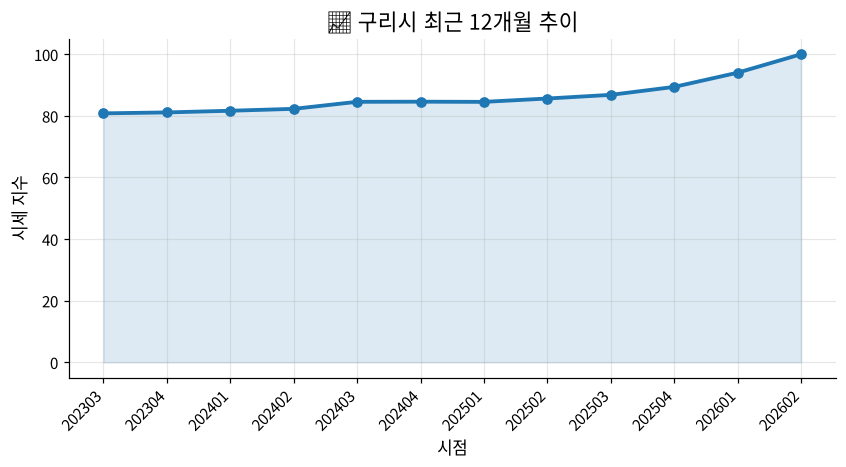
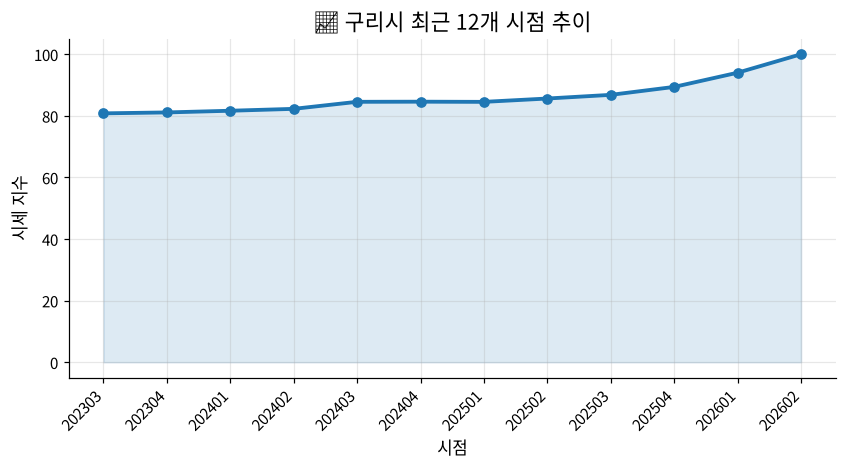
Auto-post: 🔥 구리시 부동산 핫스팟 심층 분석

Changed region(s): [[0.3688, 0.0, 0.7069, 0.0899]]

diff --git a/_posts/2026-11-09-구리시-부동산-핫스팟-심층-분석.md b/_posts/2026-11-09-구리시-부동산-핫스팟-심층-분석.md
@@ -1,0 +1,226 @@
+---
+layout: post
+title: "🔥 구리시 부동산 핫스팟 심층 분석"
+date: 2026-11-09 07:26:22 +0900
+categories: 부동산 핫스팟
+---
+
+> **2026년 11월 09일 기준** 한국부동산원 R-ONE 데이터 분석
+
+## 📌 이번 데이터의 의미
+
+**경기 구리시**는 전국 **98개 지역 중 1위**의 핫스코어를 기록했습니다.
+이 글에서는 **경기 구리시의 강세 요인**을 파헤치고, **전국 상위 지역과 비교**합니다.
+
+---
+
+## 💹 숫자로 보기
+
+| 지표 | 값 | 해석 |
+|---|---|---|
+| **핫스코어** | **76.9** | 🔥 매우 뜨거움 |
+| **최근값** | 100.00 | 시세 지수 |
+| **QoQ (전분기 대비)** | 6.38% | 단기 상승률 |
+| **YoY (전년 대비)** | 16.79% | 장기 상승률 |
+| **가속도** | 4.43%p | 최근 상승 가속도 |
+| **모멘텀** | 5개월 | 연속 상승 개월 |
+| **전국 순위** | **1위 / 98개** | 핫스코어 기준 |
+
+### 💡 핵심 요약
+
+- **경기 구리시**는 최근 **5개월 연속 상승** 중입니다.
+- 가속도 **4.43%p**로 상승세가 **강화**되고 있습니다.
+- QoQ **6.38%**, YoY **16.79%**로 **단기·장기 모두 상승세**를 보입니다.
+
+---
+
+## 🧐 최근 12개 시점 추이
+
+![경기 구리시 12개 시점 추이](/real-estate-blog/assets/images/hotspot_history_구리시.png)
+
+| 시점 | 값 | 전월 대비 |
+|---|---|---|
+| 202303 | 80.81 | - |
+| 202304 | 81.11 | 🔺 +0.37% |
+| 202401 | 81.66 | 🔺 +0.68% |
+| 202402 | 82.27 | 🔺 +0.75% |
+| 202403 | 84.56 | 🔺 +2.78% |
+| 202404 | 84.60 | 🔺 +0.05% |
+| 202501 | 84.54 | 🔻 -0.07% |
+| 202502 | 85.63 | 🔺 +1.29% |
+| 202503 | 86.81 | 🔺 +1.39% |
+| 202504 | 89.40 | 🔺 +2.97% |
+| 202601 | 94.01 | 🔺 +5.16% |
+| 202602 | 100.00 | 🔺 +6.38% |
+
+---
+
+## 🔺 전국 핫스코어 Top 15
+
+![핫스코어 Top 15](/real-estate-blog/assets/images/hotspot_top15_구리시.png)
+
+| 순위 | 지역 | 최근값 | QoQ(%) | YoY(%) | 가속도 | 핫스코어 | 상태 |
+|---|---|---|---|---|---|---|---|
+| 1 | **구리시** ⭐ | 100.00 | 6.38 | 16.79 | 4.43 | **76.9** | 🔥 매우 뜨거움 |
+| 2 | **하남시** | 100.00 | 3.77 | 19.24 | 3.15 | **75.6** | 🔥 매우 뜨거움 |
+| 3 | **수지구** | 100.00 | 3.92 | 18.43 | 3.58 | **75.5** | 🔥 매우 뜨거움 |
+| 4 | **중원구** | 100.00 | 5.40 | 18.58 | 3.58 | **73.8** | 🔥 매우 뜨거움 |
+| 5 | **서대문구** | 100.00 | 3.74 | 15.59 | 1.71 | **73.6** | 🔥 매우 뜨거움 |
+| 6 | **수정구** | 100.00 | 2.74 | 18.21 | 2.17 | **73.3** | 🔥 매우 뜨거움 |
+| 7 | **화성시** | 100.00 | 5.84 | 9.30 | 3.57 | **72.7** | 🔥 매우 뜨거움 |
+| 8 | **성북구** | 100.00 | 4.46 | 16.22 | 3.38 | **72.1** | 🔥 매우 뜨거움 |
+| 9 | **동대문구** | 100.00 | 4.55 | 17.59 | 3.59 | **71.6** | 🔥 매우 뜨거움 |
+| 10 | **동안구** | 100.00 | 3.19 | 17.79 | 1.81 | **71.4** | 🔥 매우 뜨거움 |
+| 11 | **강서구** | 100.00 | 2.63 | 13.79 | 2.36 | **70.4** | 🔥 매우 뜨거움 |
+| 12 | **광명시** | 100.00 | 3.46 | 21.11 | 3.46 | **70.0** | 🔥 매우 뜨거움 |
+| 13 | **성남시** | 100.00 | 2.06 | 24.35 | 0.36 | **69.0** | 🌶 뜨거움 |
+| 14 | **기흥구** | 100.00 | 4.60 | 10.29 | 2.95 | **69.0** | 🌶 뜨거움 |
+| 15 | **영등포구** | 100.00 | 2.73 | 19.41 | 0.44 | **68.9** | 🌶 뜨거움 |
+
+⭐ = 이 글의 주인공
+
+---
+
+## 💡 구리시 vs 상위 지역 비교
+
+| 지역 | QoQ(%) | YoY(%) | 가속도 | 모멘텀 | 핫스코어 |
+|---|---|---|---|---|---|
+| ⭐ **구리시** | 6.38 | 16.79 | 4.43 | 5개월 | **76.9** |
+| 하남시 | 3.77 | 19.24 | 3.15 | 9개월 | 75.6 |
+| 수지구 | 3.92 | 18.43 | 3.58 | 9개월 | 75.5 |
+| 중원구 | 5.40 | 18.58 | 3.58 | 5개월 | 73.8 |
+| 서대문구 | 3.74 | 15.59 | 1.71 | 10개월 | 73.6 |
+| 수정구 | 2.74 | 18.21 | 2.17 | 10개월 | 73.3 |
+
+
+### 💡 경기 구리시의 상대적 위치
+
+- **QoQ 상승률**: 경기 구리시는 평균 대비 +2.47% 높음
+- **가속도**: 경기 구리시의 가속도는 평균 대비 +1.59%p 높음
+- **모멘텀**: 경기 구리시는 **5개월 연속 상승** 중입니다.
+
+---
+
+## 🎓 투자 인사이트
+
+### 🎯 이런 분들께 유용합니다
+
+- **경기 구리시** 또는 인근 지역 부동산 관심자
+- 수도권·지방 부동산 시세 비교 분석가
+- 부동산 정책·시장 동향 연구자
+
+### 📊 체크리스트
+
+- [ ] QoQ + YoY 모두 상승 중인가?
+- [ ] 가속도가 양수인가?
+- [ ] 모멘텀이 3개월 이상인가?
+- [ ] 거래량도 함께 증가하는가?
+
+### ⚠ 유의사항
+
+- 핫스코어는 **과거 데이터 기반**이며 미래를 보장하지 않습니다.
+- 시세 지수의 절대값이 아닌 **추세**를 보세요.
+- 거래량, 정책, 금리 등 추가 요인을 종합적으로 판단하세요.
+
+---
+
+*분석 기준: 가속도(30%) + QoQ(25%) + YoY(20%) + 모멘텀(15%) + 변동성(10%)*
+
+---
+
+## 🏢 구리시 실제 거래 사례
+
+> 국토교통부 실거래가 공개시스템 기반 (최근 3개월, 극단값 제외)
+
+### 📊 요약 통계
+
+| 항목 | 값 |
+|---|---|
+| **총 거래건수** | 166건 |
+| **평균 거래가** | 76,546만원 |
+| **중위 거래가** | 76,000만원 |
+| **P10 (하위 10%)** | 60,000만원 |
+| **P90 (상위 10%)** | 94,100만원 |
+| **평균 평당가** | 3,379만원/평 |
+| **최근 거래월** | 202609 |
+
+> 💡 **P10/P90**: 전체 거래를 가격순으로 나열했을 때 하위·상위 10% 지점. 극단값에 휘둘리지 않는 실제 시장 범위를 보여줍니다.
+> 📌 참고용 실거래 범위: 24,000만원 ~ 150,000만원 (극소형·대형 포함)
+
+### 🏆 거래 활발한 아파트 Top 10
+
+| 순위 | 아파트 | 동 | 거래건수 | 평균거래가(만원) | 평균평당가(만원) |
+|---|---|---|---|---|---|
+| 1 | **한라비발디** | 갈매동 | 10건 | 78,010 | 3,085 |
+| 2 | **갈매더샵나인힐스** | 갈매동 | 8건 | 75,206 | 3,024 |
+| 3 | **갈매역아이파크** | 갈매동 | 8건 | 88,012 | 3,427 |
+| 4 | **엘에이치이스트힐** | 갈매동 | 7건 | 63,471 | 3,882 |
+| 5 | **구리갈매스타힐스** | 갈매동 | 7건 | 75,000 | 3,078 |
+| 6 | **구리갈매푸르지오** | 갈매동 | 6건 | 88,700 | 3,106 |
+| 7 | **원일아름** | 인창동 | 6건 | 58,367 | 2,964 |
+| 8 | **주공1** | 인창동 | 5건 | 73,060 | 4,134 |
+| 9 | **동양주택조합** | 인창동 | 5건 | 80,420 | 3,128 |
+| 10 | **한진** | 인창동 | 5건 | 60,640 | 2,526 |
+
+### 📋 최근 거래 상세 (Top 15)
+
+| 거래일 | 동 | 아파트 | 거래가(만원) | 면적(m²) | 층 | 평당가(만원) |
+|---|---|---|---|---|---|---|
+| 2026-09 | 갈매동 | 구리갈매스타힐스 | 79,300 | 85.0 | 17 | 3,086 |
+| 2026-09 | 인창동 | 아름마을엘지 | 72,700 | 85.0 | 21 | 2,829 |
+| 2026-09 | 갈매동 | 갈매6단지 | 78,000 | 85.0 | 13 | 3,035 |
+| 2026-09 | 인창동 | 인창2차e-편한세상 | 95,500 | 84.4 | 5 | 3,742 |
+| 2026-09 | 갈매동 | 이룸넘버원리치안 | 8,700 | 15.0 | 3 | 1,920 |
+| 2026-09 | 토평동 | 삼성 | 129,500 | 134.9 | 12 | 3,174 |
+| 2026-09 | 갈매동 | 갈매더샵나인힐스 | 74,000 | 84.8 | 16 | 2,885 |
+| 2026-09 | 수택동 | 금호베스트빌 | 150,000 | 134.1 | 1 | 3,698 |
+| 2026-09 | 인창동 | 인창칸타빌더헤리티지 | 87,000 | 85.0 | 6 | 3,385 |
+| 2026-09 | 인창동 | 현대홈타운 | 91,800 | 82.1 | 14 | 3,697 |
+| 2026-09 | 인창동 | 주공6 | 78,500 | 58.1 | 8 | 4,463 |
+| 2026-09 | 갈매동 | 갈매역아이파크 | 89,400 | 84.7 | 6 | 3,488 |
+| 2026-09 | 수택동 | 엘지원앙 | 83,000 | 52.1 | 6 | 5,268 |
+| 2026-09 | 인창동 | 주공1 | 74,500 | 58.1 | 11 | 4,236 |
+| 2026-09 | 인창동 | 건영 | 67,000 | 83.9 | 3 | 2,641 |
+
+> ⚠ 실거래가는 신고 지연, 해제 거래 등으로 실제와 차이가 있을 수 있습니다.
+
+## 🧠 편집자 인사이트
+
+전년 대비 16.79%라는 가파른 상승률에 분기 기준(QoQ) 6.38%의 변동폭이 더해졌습니다. 여기에 상승 탄력을 대변하는 가속도가 4.43, 모멘텀 지표가 최고 수준인 5를 기록하며 구리시 부동산 시장은 단단한 상승 기류를 타고 있습니다. 총 166건의 실거래가 체결되는 동안 형성된 평균 거래가는 7억 6,546만 원, 평당가는 3,379만 원에 달합니다. 지표 전반이 뚜렷하게 가리키고 있는 방향은 명확합니다. 수도권 동북부의 작은 거점이었던 이곳으로 시장의 시선이 집중되고 있습니다.
+
+별내선 연장 개통 효과와 서울 강동권 접근성, 그리고 한강을 낀 입지적 희소성이 맞물린 결과입니다. 잠실과 강남을 잇는 철도망 연결로 강남권 출퇴근 시간이 단축된 데다 한강을 마주한 강동구와의 지리적 연계성이 부각되면서 '준서울'로서의 위상이 재평가받고 있습니다. 서울 핵심 업무지구로의 실질적인 이동 시간이 줄어들자 인접 지역 거주자뿐만 아니라 서울 동남권 수요까지 흡수하는 양상입니다. 한강 조망과 수변 인프라가 주는 정주 여건의 쾌적성 역시 실거주 수요 유입을 뒷받침하는 핵심 축으로 작동하고 있습니다.
+
+가격의 중심축은 견고하게 형성되어 있습니다. 실거래 중위가격이 7억 6,000만 원으로 평균가와 거의 일치하며, 하위 10%인 P10(6억 원)부터 상위 10%인 P90(9억 4,100만 원) 사이에 대다수 거래가 안정적으로 밀집해 있습니다. (참고로 극단적인 형태의 특수 거래를 포함한 실거래 최저가는 2억 4,000만 원, 최고가는 15억 원 수준으로 나타납니다.) 6억 원대 중저가 매물이 하방을 단단히 지지하는 가운데 9억 원을 넘어서는 고가 단지들이 상방을 열어주면서 시장 전반의 체력이 한층 두터워졌음을 보여줍니다. 단발성 급등이 아니라 중간 가격대 매물이 꾸준히 소화되며 시세 하한선 자체가 올라선 형태입니다.
+
+시장의 향방을 가를 시나리오는 두 갈래로 나뉩니다. 긍정적인 흐름이 이어진다면 강동·송파와의 가격 차이를 좁히려는 키맞추기 장세가 지속되며 P90(9억 4,100만 원) 선을 뚫고 10억 원대 안착을 시도하는 거래가 확산될 수 있습니다. 반면 단기간에 16% 이상 치솟은 누적 피로감과 평당 3,300만 원 중반대에 형성된 진입 장벽으로 인해 추가 추격 매수가 둔화되면서 7억 원대 중반에서 매물 소화 과정을 거치는 숨 고르기 장세가 나타날 가능성도 열려 있습니다.
+
+가파르게 올라선 구리시의 가격 레벨은 앞으로도 서울 동남권 배후 주거지로서의 확실한 지위를 유지해낼 수 있을까요? 166건의 거래 속에서 드러난 단단한 모멘텀이 일시적 과열을 넘어 장기적인 가치 재평가로 굳어질 수 있을지 지켜볼 시점입니다.
+
+
+---
+
+## 🏘 구리시 지역 특성
+
+### 📍 위치
+경기도 동북부, 서울 강동구 인접 (한강 이북)
+
+### 🚇 주요 역세권
+구리역 (경의중앙선), 갈매역, 동구릉역, 돌다리역
+
+### 🏗 개발 호재
+별내선 연장 (2026 개통 예정), GTX-B 노선 (예정), 구리~포천 고속도로
+
+### 🎓 학군
+평균 이상 (구리여고, 구리고, 토평고 등)
+
+### 💡 지역 특징
+서울 잠실/강남 접근성 우수, 신축 아파트 공급 활발, 한강 조망
+
+> ⚠ 개발 호재는 계획 단계이며, 실제 진행 여부와 시기는 변동될 수 있습니다.
+
+
+
+---
+
+*📊 데이터 출처: 한국부동산원 R-ONE Open API (reb.or.kr/r-one) · 국토교통부 실거래가 (rt.molit.go.kr)*
+*⚠ 본 글은 정보 제공 목적이며, 투자 권유가 아닙니다. 자세한 내용은 [면책 조항]({{ site.baseurl }}/disclaimer/)을 참고하세요.*
